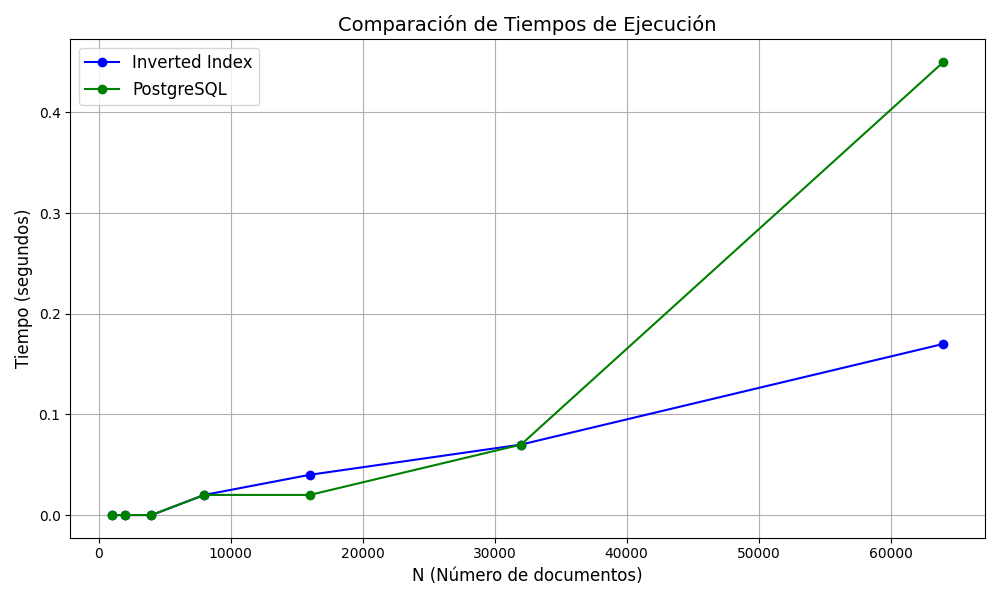
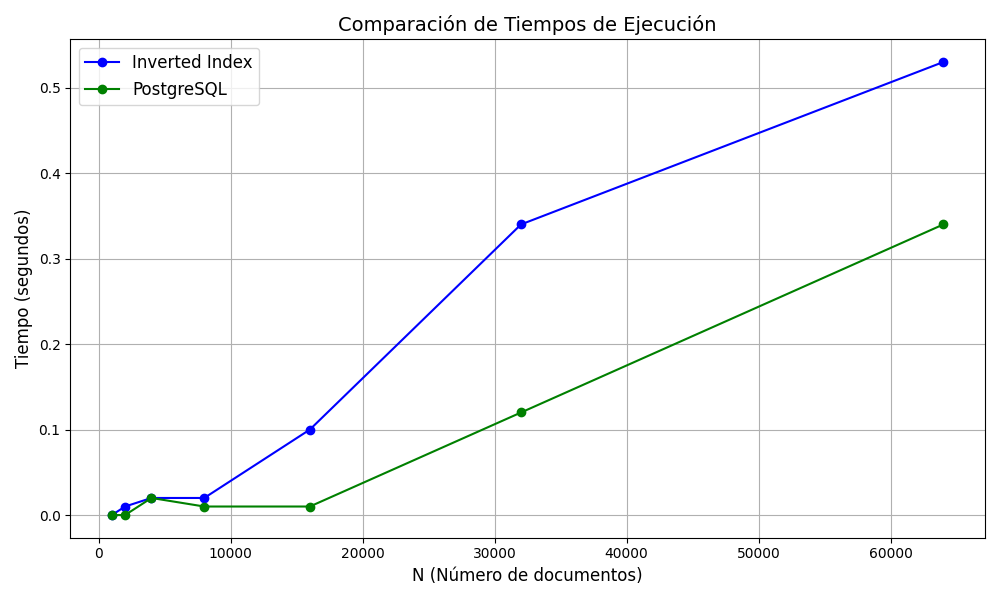
redo experiement

diff --git a/app/DataLoader.py b/app/DataLoader.py
@@ -353,11 +353,12 @@ class DataLoader:
                     )
                     self.connection.commit()
 
-                    start = time.time()
+                    
                     queryPostgres = self.sqlParser.parseQueryPostgres(query)
+                    start = time.time()
                     self.cursor.execute(queryPostgres)
-                    results = self.cursor.fetchall()
                     end = time.time()
+                    results = self.cursor.fetchall()
                     time_taken = end - start
                     report_file.write(f"Consulta ejecutada en {time_taken:.2f} segundos en PostgreSQL\n")
                     print(f"Consulta ejecutada en {time_taken:.2f} segundos en PostgreSQL")

diff --git a/app/Experiments.py b/app/Experiments.py
@@ -7,8 +7,9 @@ import matplotlib.pyplot as plt
 
 # Datos proporcionados
 N_values = [1000, 2000, 4000, 8000, 16000, 32000, 64000]
-inverted_index_times = [0.00, 0.00, 0.00, 0.02, 0.04, 0.07, 0.17]
-postgres_times = [0.00, 0.00, 0.00, 0.02, 0.02, 0.07, 0.45]
+inverted_index_times = [0.00, 0.01, 0.02, 0.02, 0.10, 0.34, 0.53]
+postgres_times = [0.00, 0.00, 0.02, 0.01, 0.01, 0.12, 0.34]
+
 
 # Crear la figura y el eje
 plt.figure(figsize=(10, 6))
